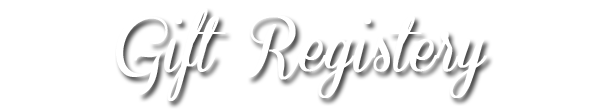
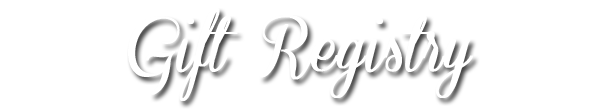
general tidying

Changed region(s): [[0.18, 0.0818, 0.84, 0.9818]]

diff --git a/_posts/2012-12-21-Our-Wedding-Party.html b/_posts/2012-12-21-Our-Wedding-Party.html
@@ -19,7 +19,7 @@ permalink: /wedding-party
 				<img src="/images/party/michelle.jpg" title="Michelle Altmann" alt="Michelle Altmann" class="right pad-left-15" />
 				<p class="text-right"><strong>Michelle Altmann<br />
 				   Maid of Honor</strong></p>
-				<p class="text-right">Michelle is Diana's little sister.</p>
+				<p class="text-right">Michelle is Diana's little sister and best friend, even though she thinks Diana is "so old" and "boring" sometimes. Michelle always manages to make Diana laugh, even when she is trying to give big-sister advice (aka being bossy).</p>
 			</div>
 			<div class="six columns">
 				<img src="/images/party/darren.jpg" title="Darren Rooney" alt="Darren Rooney" class="left pad-right-15" />
@@ -33,13 +33,13 @@ permalink: /wedding-party
 				<img src="/images/party/rachel.jpg" title="Rachel Willms" alt="Rachel Willms" class="right pad-left-15" />
 				<p class="text-right"><strong>Rachel Willms<br />
 				   Bridesmaid</strong></p>
-				<p class="text-right">Rachel is Diana's oldest friend, they have known each other their whole lives and grew up down the block from each other. They spent their childhood riding bikes, going to the beach, and playing tennis with the dream of one day making it to Wimbledon. Diana has, but she had to pay for the ticket.</p>
+				<p class="text-right">Rachel is Diana's oldest friend, they have known each other their whole lives and grew up down the block from each other. They spent their childhood together riding bikes, going to the beach, and playing tennis with the dream of one day making it to Wimbledon. Diana has, but had to pay for the ticket.</p>
 			</div>
 			<div class="six columns">
 				<img src="/images/party/ultan.jpg" title="Ultan Rooney" alt="Ultan Rooney" class="left pad-right-15" />
 				<p class="text-left"><strong>Ultan Rooney<br />
 				   Groomsman</strong></p>
-				<p class="text-left"><span title="aka Wee Man">Ultan</span> is Ciar&aacute;n's little brother. As the youngest in the family, he is used to getting things his own way so now he will have to listen to what his <strike>big brother</strike> Diana says for once.</p>
+				<p class="text-left"><span title="aka Wee Man">Ultan</span> is Ciar&aacute;n's little brother. As the youngest in the family, he is used to getting things his own way so now he will have to listen to what <strike>his big brother</strike> Diana says for once.</p>
 			</div>			
 		</div>
 		<div class="row">
@@ -47,7 +47,7 @@ permalink: /wedding-party
 				<img src="/images/party/courtney.jpg" title="Courtney Schroedel" alt="Courtney Schroedel" class="right pad-left-15" />
 				<p class="text-right"><strong>Courtney Schroedel<br />
 				   Bridesmaid</strong></p>
-				<p class="text-right">Courtney and Diana met in kindergarten.</p>
+				<p class="text-right">Courtney and Diana met in kindergarten and have remained the best of friends for the last 25 years.</p>
 			</div>
 			<div class="six columns">
 				<img src="/images/party/dave.jpg" title="David Rooney" alt="David Rooney" class="left pad-right-15" />
@@ -61,7 +61,7 @@ permalink: /wedding-party
 				<img src="/images/party/lisa.jpg" title="Lisa D'Ambrosio" alt="Lisa D'Ambrosio" class="right pad-left-15" />
 				<p class="text-right"><strong>Lisa D'Ambrosio<br />
 				   Bridesmaid</strong></p>
-				<p class="text-right">Lisa and Diana met in high school, and managed to survive the awkward years in the same group of friends. Lisa was there when Diana and Ciar&aacute;n met for the second time. </p>
+				<p class="text-right">Lisa and Diana met in high school, and managed to survive the awkward years in the same group of tightknit friends. Lisa was in Dublin the night Diana and Ciaran reunited in The Porterhouse.  All of the Bulmers had nothing to do with her instant love of "Frody", her own take on Ciaran's nickname.</p>
 			</div>
 			<div class="six columns">
 				<img src="/images/party/mark.jpg" title="Mark Kiernan" alt="Mark Kiernan" class="left pad-right-15" />
@@ -75,7 +75,7 @@ permalink: /wedding-party
 				<img src="/images/party/sharkey.jpg" title="Christine Valentic" alt="Christine Valentic" class="right pad-left-15" />
 				<p class="text-right"><strong>Christine Valentic<br />
 				   Bridesmaid</strong></p>
-				<p class="text-right">Christine and Diana have known each other since they were 9.  Diana returned from Christmas vacation and found out that Christine had taken over her desk next to all of her friends. Despite the rough start, they remain great friends.</p>
+				<p class="text-right">Christine and Diana have known each other since they were 9.  In the 4th grade, Diana returned from Christmas vacation and found out that Christine had taken over her desk next to all of her friends. Despite the rough start, they have managed to become the best of friends.</p>
 			</div>
 			<div class="six columns">
 				<img src="/images/party/alan.jpg" title="Alan O'Conor" alt="Alan O'Conor" class="left pad-right-15" />
@@ -89,7 +89,7 @@ permalink: /wedding-party
 				<img src="/images/party/eliza.jpg" title="Eliza Rafferty" alt="Eliza Rafferty" class="right pad-left-15" />
 				<p class="text-right"><strong>Eliza Rafferty<br />
 				   Bridesmaid</strong></p>
-				<p class="text-right">Eliza met Diana when they were living down the hall from each other during their first year at Northeastern.  They went on to live together for two more years and spent some time travelling around Europe.</p>
+				<p class="text-right">Eliza met Diana when they were living down the hall from each other during their first year at Northeastern.  They went on to live together for two more years and spent some time travelling around Europe together.</p>
 			</div>
 			<div class="six columns">
 				<img src="/images/party/russell.jpg" title="Russell O'Connor" alt="Russell O'Connor" class="left pad-right-15" />

diff --git a/_posts/2012-12-21-The-Big-Day.html b/_posts/2012-12-21-The-Big-Day.html
@@ -21,7 +21,7 @@ permalink: /the-big-day
 					We will be getting married at the church that Diana's family has been attending for over 30 years. 
 					Pastor Jeff Lausten will be presiding over the ceremony at Holy Trinity Lutheran Church. 
 					We will be providing shuttles to and from the church for those out-of-towners who have already checked into the Hilton Garden Inn.
-					Holy Trinty Lutheran Church is located at 240 Lincoln Avenue, Rockville Centre, NY 11570.
+					Holy Trinity Lutheran Church is located at 240 Lincoln Avenue, Rockville Centre, NY 11570.
 				</p>
 			</div>
 			<div class="four columns">

diff --git a/_includes/header.html b/_includes/header.html
@@ -28,7 +28,7 @@
 			<div class="five columns text-center">
 				<p>
 					<a href="/out-of-towners" class="left pad-left-50">Out of Towners</a>
-					<a href="/gift-registery">Gift Registry</a>
+					<a href="/gift-registry">Gift Registry</a>
 					<a href="/rsvp" class="right">RSVP</a>
 				</p>
 			</div>

diff --git a/_posts/2012-12-21-Gift-Registery.html b/_posts/2012-12-21-Gift-Registery.html
@@ -1,7 +1,7 @@
 ---
 layout: default
-title: Gift Registery
-permalink: /gift-registery
+title: Gift Registry
+permalink: /gift-registry
 ---
 	<!-- title -->
 	<div class="row">
